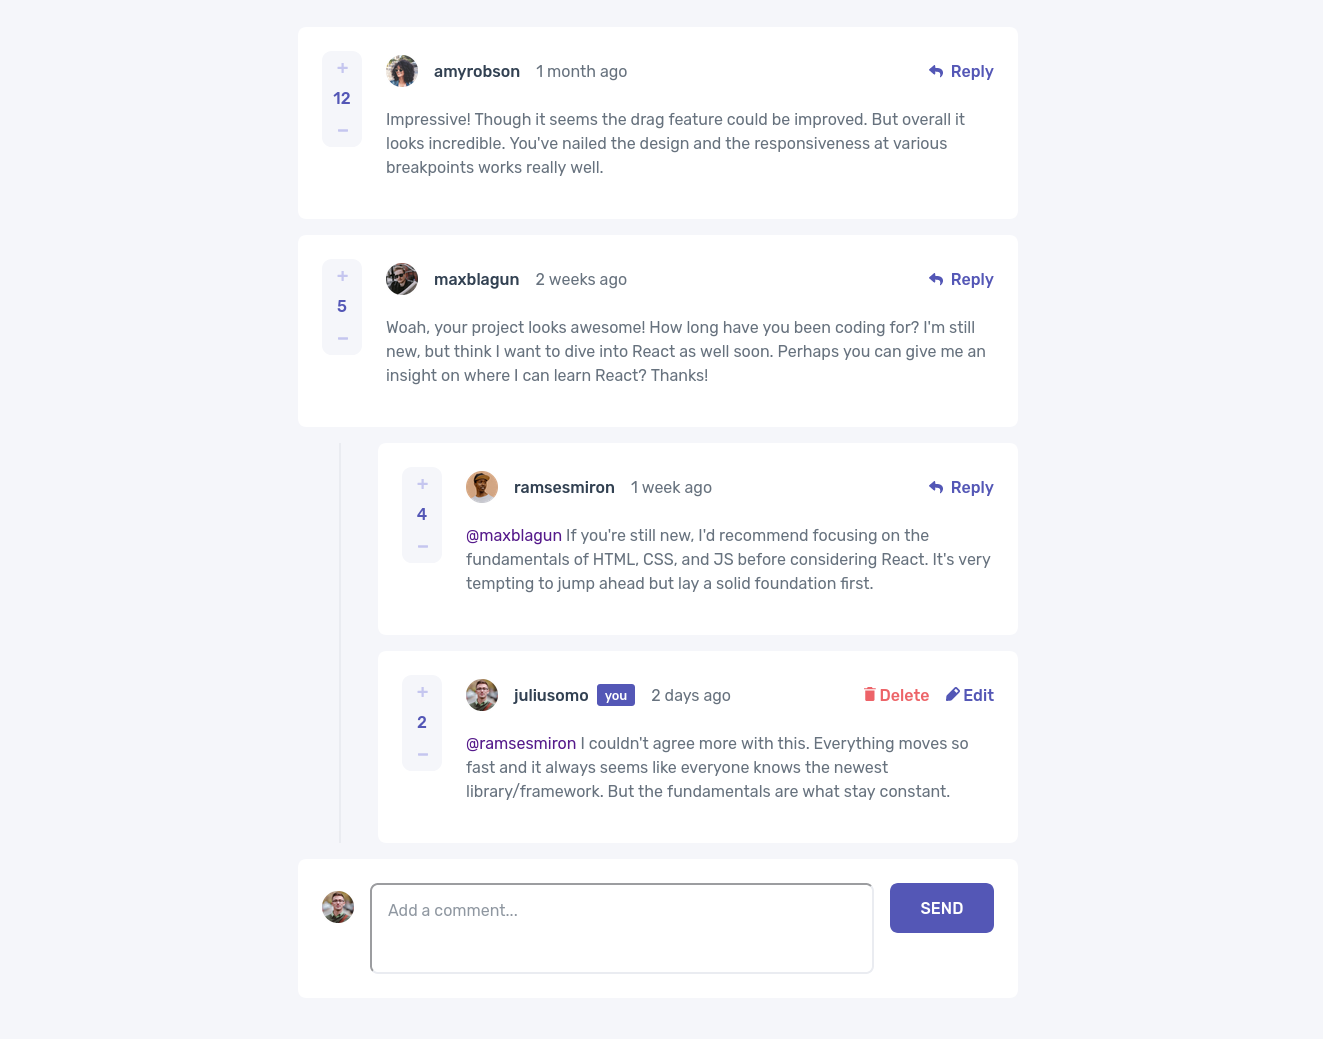
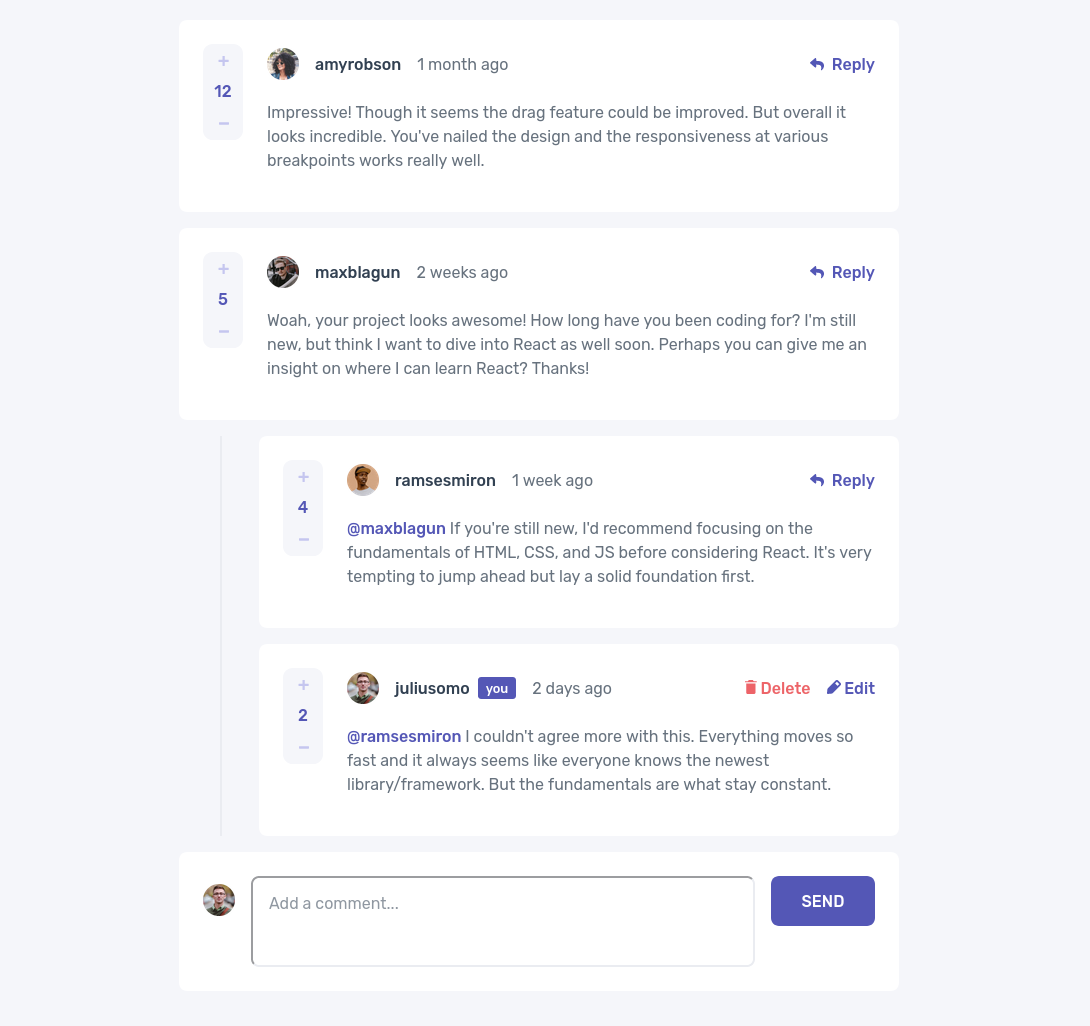
final

diff --git a/css/main.css b/css/main.css
@@ -49,6 +49,12 @@
   margin-top: 1rem;
   margin-bottom: 1rem;
 }
+.comment-box__text-content a,
+.comment-box__text-content a:link,
+.comment-box__text-content a:visited {
+  font-weight: 500;
+  color: #5457b6;
+}
 .comment-box__edit-update-btn {
   text-align: center;
   width: 6.5rem;

diff --git a/sass/_comments.scss b/sass/_comments.scss
@@ -57,6 +57,13 @@
   &__text-content {
     margin-top: 1rem;
     margin-bottom: 1rem;
+
+    a,
+    a:link,
+    a:visited {
+      font-weight: $font-weight-semi-bold;
+      color: $color-moderate-blue;
+    }
   }
 
   &__edit-update-btn {

diff --git a/README.md b/README.md
@@ -1,6 +1,6 @@
-# Frontend Mentor - Social media dashboard with theme switcher solution
+# Frontend Mentor - Interactive comments section solution
 
-This is a solution to the [Social media dashboard with theme switcher challenge on Frontend Mentor](https://www.frontendmentor.io/challenges/social-media-dashboard-with-theme-switcher-6oY8ozp_H). Frontend Mentor challenges help you improve your coding skills by building realistic projects.
+This is a solution to the [Interactive comments section challenge on Frontend Mentor](https://www.frontendmentor.io/challenges/interactive-comments-section-iG1RugEG9). Frontend Mentor challenges help you improve your coding skills by building realistic projects.
 
 ## Table of contents
 
@@ -17,9 +17,12 @@ This is a solution to the [Social media dashboard with theme switcher challenge 
 
 Users should be able to:
 
-- View the optimal layout for the site depending on their device's screen size
+- View the optimal layout for the app depending on their device's screen size
 - See hover states for all interactive elements on the page
-- Toggle color theme to their preference
+- Create, Read, Update, and Delete comments and replies
+- Upvote and downvote comments
+- **Bonus**: If you're building a purely front-end project, use `localStorage` to save the current state in the browser that persists when the browser is refreshed.
+- **Bonus**: Instead of using the `createdAt` strings from the `data.json` file, try using timestamps and dynamically track the time since the comment or reply was posted.
 
 ### Screenshot
 
@@ -27,11 +30,12 @@ Users should be able to:
 
 ### Links
 
-- Solution URL: https://www.frontendmentor.io/solutions/css-gridflexbox-and-javascript-wjc2MOWStM
-- Live Site URL: https://brancog.github.io/social-media-dashboard-with-theme-switcher/
+- Solution URL:
+- Live Site URL:
 
 ### Built with
 
+- Javascript
 - Semantic HTML5 markup
 - CSS custom properties
 - Flexbox
